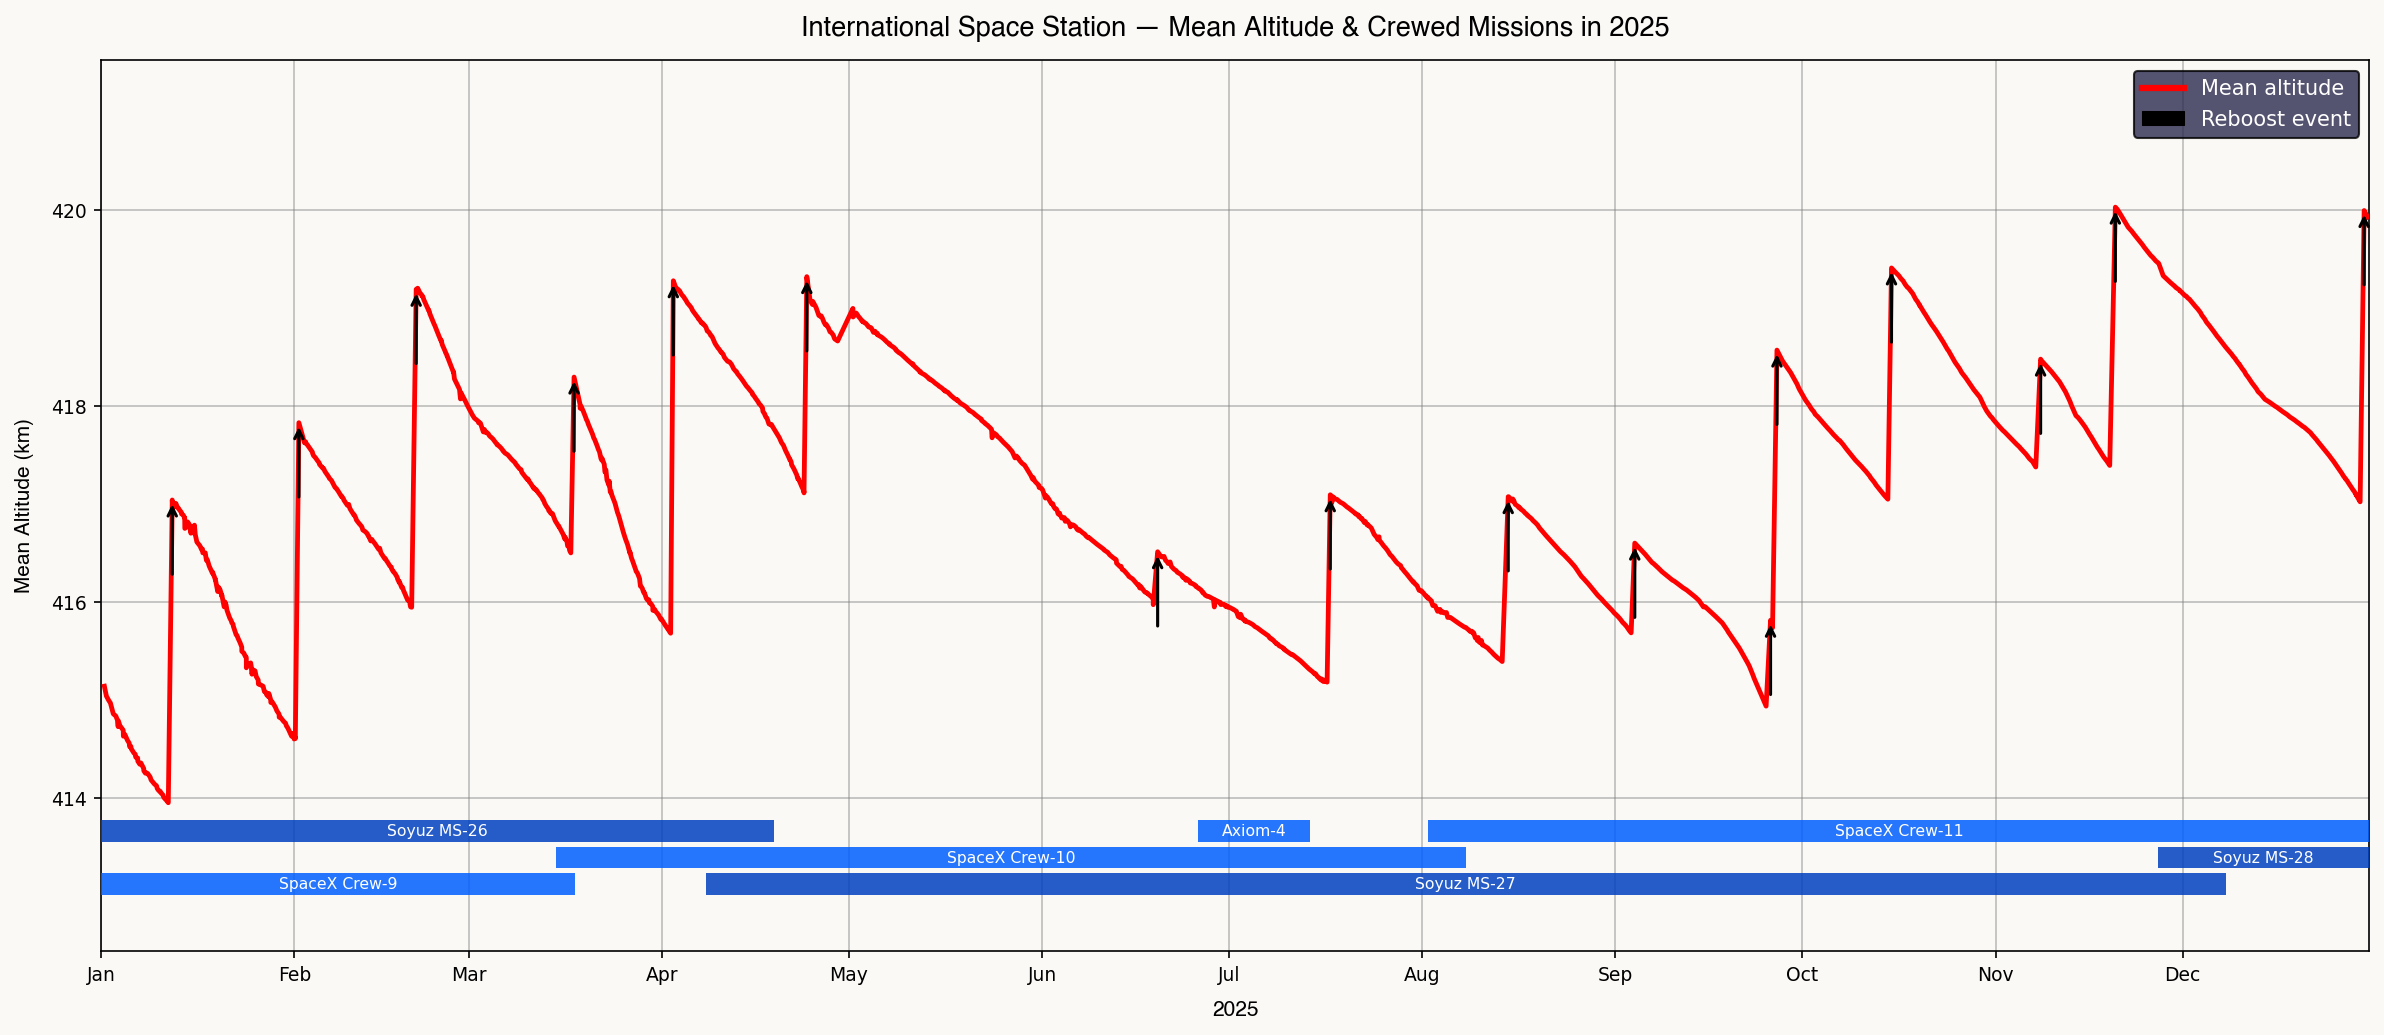
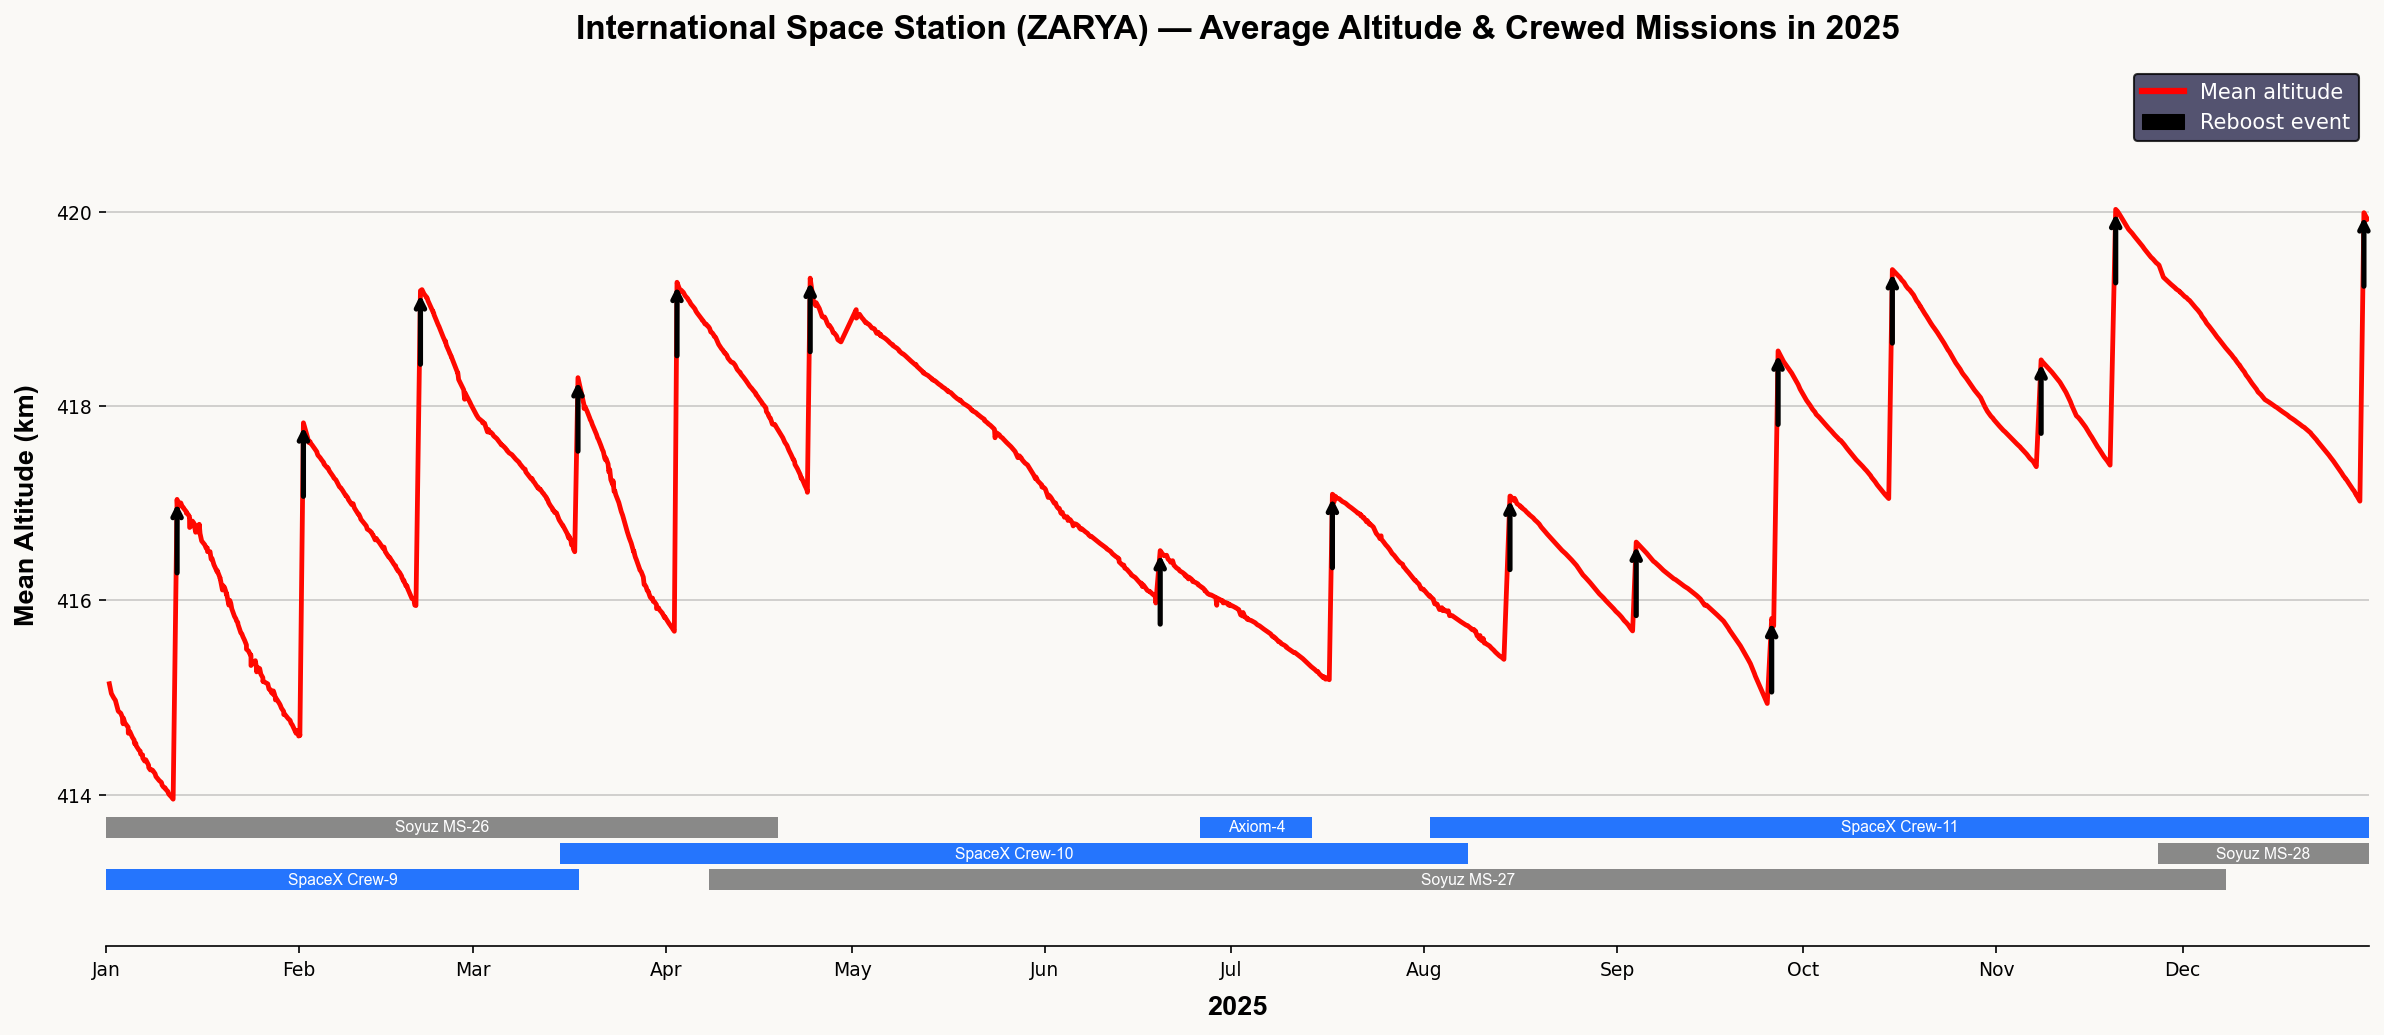
final changes to formatting

diff --git a/calculate_mean_alt.py b/calculate_mean_alt.py
@@ -182,7 +182,7 @@ def plot_iss_chart():
     ax.plot(
         dates,
         mean_iss_alt,
-        color="#FF0000",
+        color="#FF0800",
         linewidth=2.3,
         label="Mean altitude",
         zorder=4,
@@ -194,18 +194,17 @@ def plot_iss_chart():
             "",
             xy=(dates[idx], mean_iss_alt[idx]),
             xytext=(dates[idx], mean_iss_alt[idx] - 0.8),
-            arrowprops=dict(arrowstyle="->", color="black", lw=1.5),
+            arrowprops=dict(arrowstyle="->", color="#000000", lw=2.5),
             zorder=5,
         )
 
     # Grid
-    ax.grid(True, color="gray", alpha=0.5, linestyle="-", zorder=0)
-
+    ax.yaxis.grid(True, color="gray", alpha=0.4, linestyle="-", zorder=0)
+    ax.xaxis.grid(False)
     # --- Mission bars ---
     COLORS = {
         "dragon": "#005EFF",
-        "soyuz": "#0040C0",
-        "other": "#55BBAA",
+        "soyuz": "#757575",
     }
 
     def bar_color(name):
@@ -276,6 +275,7 @@ def plot_iss_chart():
             va="center",
             fontsize=7.5,
             color="white",
+            fontname="Arial",
             zorder=5,
         )
 
@@ -289,8 +289,12 @@ def plot_iss_chart():
     ax.xaxis.set_major_formatter(mdates.DateFormatter("%b"))
 
     # Styling
-    for spine in ax.spines.values():
-        spine.set_color("#000000")
+    # for spine in ax.spines.values():
+    #     spine.set_color("#000000")
+    ax.spines["top"].set_visible(False)
+    ax.spines["right"].set_visible(False)
+    ax.spines["left"].set_visible(False)
+    ax.spines["bottom"].set_color("#000000")
     ax.tick_params(colors="black", labelsize=9)
     ax.set_xlabel(
         "2025",
@@ -298,6 +302,7 @@ def plot_iss_chart():
         labelpad=8,
         fontweight="bold",
         fontname="Arial",
+        fontsize=13,
     )
     ax.set_ylabel(
         "Mean Altitude (km)",
@@ -305,26 +310,32 @@ def plot_iss_chart():
         labelpad=8,
         fontweight="bold",
         fontname="Arial",
+        fontsize=13,
     )
     ax.set_title(
-        "International Space Station — Mean Altitude & Crewed Missions in 2025",
+        "International Space Station (ZARYA) — Average Altitude & Crewed Missions in 2025",
         color="black",
-        fontsize=13,
+        fontsize=16,
         pad=12,
         fontweight="bold",
         fontname="Arial",
     )
-    def make_legend_arrow(legend, orig_handle, xdescent, ydescent, width, height, fontsize):
-        p = mpatches.FancyArrow(0, 0.5*height, width, 0, length_includes_head=True, head_width=0.75*height )
-        return p
-    arrow = plt.arrow(0, 0, 0.5, 0.6, 'dummy', label="Reboost event",)
-    legend_arrow = [arrow], ['My label'], handler_map={mpatches.FancyArrow : HandlerPatch(patch_func=make_legend_arrow)}
     # Legend
     legend_handles = [
         Line2D([0], [0], color="#FF0000", linewidth=3, label="Mean altitude"),
         # mpatches.Patch(
         #     facecolor="#ffd8b1", alpha=0.9, edgecolor="gray", label="Reboost event"),
-        legend_arrow,
+        plt.arrow(
+            0,
+            0,
+            0.1,
+            0.1,
+            label="Reboost event",
+            color="#000000",
+            lw=0.5,
+            head_width=0.3,
+            head_length=0.3,
+        ),
     ]
     ax.legend(
         handles=legend_handles,
